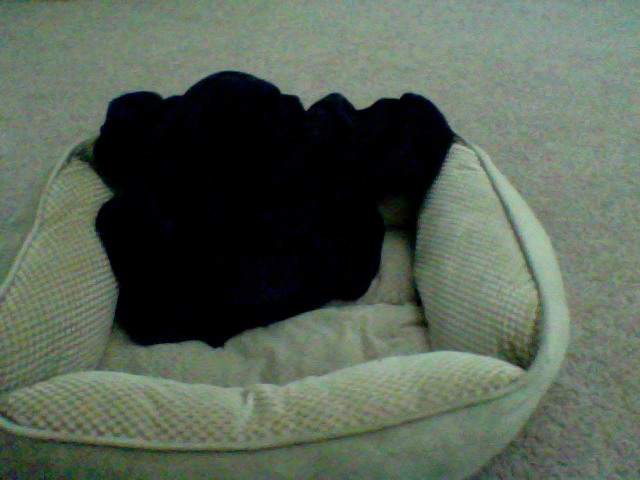
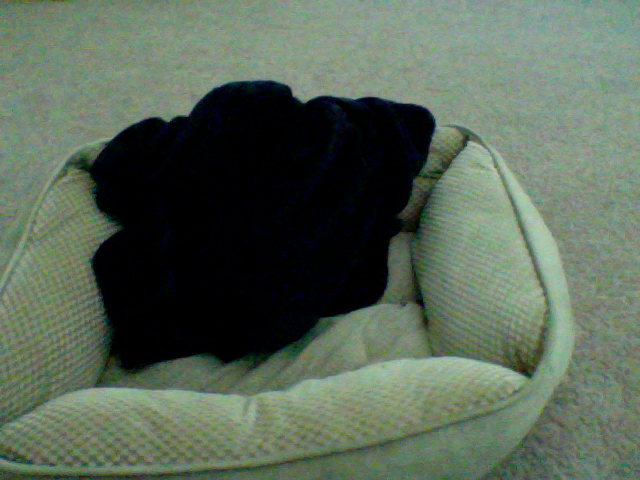
update at Month05Day08Time14:52

diff --git a/index.html b/index.html
@@ -39,8 +39,8 @@
       <!-- Example row of columns -->
       <div class="row">
         <div class="col-md-4">
-	<p>This picture was updated at Month05Day08Time14:51</p>
-		<img src="2_pic.png" />
+	<p>This picture was updated at Month05Day08Time14:52</p>
+		<img src="1_pic.png" />
         </div>
       </div>
 
